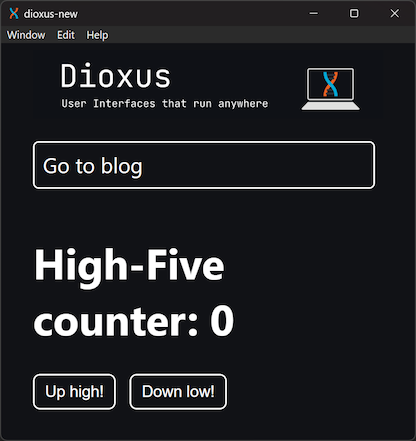
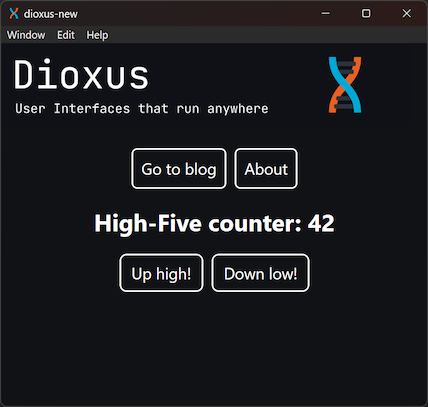
Fixed & extended CSS, be responsive.

diff --git a/assets/main.css b/assets/main.css
@@ -1,35 +1,26 @@
+* {
+    box-sizing: border-box;
+    margin: 0;
+    padding: 0;
+    color: white;
+    font-family: 'Segoe UI', Tahoma, Geneva, Verdana, sans-serif;
+}
+
+div, p, span {
+    font-size: large;
+}
+
 body {
     background-color: #111216;
 }
 
-h1 h2 h3 h4 h5 h6 {
-    color: white;
-}
-
-#main {
-    margin: 0;
-    display: flex;
-    flex-direction: column;
-    justify-content: center;
-    align-items: center;
-    font-family: 'Segoe UI', Tahoma, Geneva, Verdana, sans-serif
-}
-
-#links {
-    width: 25rem;
-    text-align: left;
-    font-size: x-large;
-    color: white;
-    display: flex;
-    flex-direction: column;
+#header img {
+    min-height: 6rem;
 }
 
 #links a {
-    color: white;
     text-decoration: none;
-    margin-top: 1.2rem;
-    margin-bottom: 1.2rem;
-    margin-right: 0.6rem;
+    font-size: large;
     border: white 0.14rem solid;
     border-radius: 0.4rem;
     padding: 0.6rem;
@@ -41,17 +32,33 @@ h1 h2 h3 h4 h5 h6 {
     cursor: pointer;
 }
 
-#header {
-    max-width: 75rem;
+#main {
+    display: flex;
+    flex-direction: column;
+    justify-content: center;
+    align-items: center;
+    gap: 1.2rem;
+
+    /* Debug */
+    /* border: 2px solid red; */
+}
+
+.row {
+    width: 100%;
+    display: flex;
+    flex-direction: row;
+    flex-wrap: wrap;
+    gap: 0.6rem;
+    justify-content: center;
+
+    /* Debug */
+    /* border: 2px solid lightblue; */
 }
 
 button {
-    color: white;
     background-color: #111216;
     padding: 0.5rem 0.75rem;
     font-size: large;
-    margin-right: 1rem;
-    margin-bottom: 1rem;
     border: white 0.14rem solid;
     border-radius: 0.5rem;
 }
@@ -59,4 +66,47 @@ button {
 button:hover {
     background-color: #2b2b2b;
     transition-duration: 250ms;
+}
+
+/* Content divs margins - also see media queries below */
+div#main > div:not(#header):not(#links) {
+    margin-right: 36vw;
+    margin-left: 36vw;
+}
+
+@media screen and (max-width: 100rem) {
+
+    div#main > div:not(#header):not(#links) {
+        margin-right: 32vw;
+        margin-left: 32vw;
+    }
+}
+
+@media screen and (max-width: 80rem) {
+
+    div#main > div:not(#header):not(#links) {
+        margin-right: 28vw;
+        margin-left: 28vw;
+    }
+}
+
+@media screen and (max-width: 60rem) {
+
+    div#main > div:not(#header):not(#links) {
+        margin-right: 20vw;
+        margin-left: 20vw;
+    }
+}
+
+@media screen and (max-width: 40rem) {
+    /* Left-align the header image when screen gets too small */
+    #header {
+        align-self: flex-start;
+        margin-left: -1.5rem;
+    }
+
+    div#main > div:not(#header):not(#links) {
+        margin-right: 8vw;
+        margin-left: 8vw;
+    }
 }

diff --git a/src/components.rs b/src/components.rs
@@ -8,11 +8,7 @@ use crate::routes::Routes;
 #[component]
 pub fn App() -> Element {
     rsx! {
-        div {
-            id: "links",
-
-            Router::<Routes> {}
-        }
+        Router::<Routes> {}
     }
 }
 
@@ -32,11 +28,42 @@ fn Header() -> Element {
 }
 
 #[component]
+pub fn About() -> Element {
+    rsx! {
+        Header {}
+
+        div {
+            id: "links",
+            class: "row",
+
+            Link { to: Routes::Home {}, "Go to counter" }
+        }
+
+        h2 { "About" }
+
+        div { "This is a Dioxus template application." }
+
+        div {
+            r#"Lorem ipsum dolor sit amet, consectetur adipiscing elit, sed do eiusmod tempor incididunt ut labore et dolore magna aliqua. Duis tristique sollicitudin nibh sit amet commodo nulla. Neque sodales ut etiam sit amet. Suscipit adipiscing bibendum est ultricies. Non tellus orci ac auctor augue mauris augue neque. Lectus urna duis convallis convallis tellus id interdum velit. Dictum varius duis at consectetur. Donec pretium vulputate sapien nec sagittis aliquam malesuada bibendum. In cursus turpis massa tincidunt dui ut ornare lectus. Lorem ipsum dolor sit amet. Vitae purus faucibus ornare suspendisse sed nisi lacus. Ornare quam viverra orci sagittis eu volutpat odio. Congue quisque egestas diam in arcu cursus euismod quis. Dignissim suspendisse in est ante in nibh mauris cursus mattis."#
+        }
+    }
+}
+
+#[component]
 pub fn Blog(id: i32) -> Element {
     rsx! {
         Header {}
 
-        Link { to: Routes::Home {}, "Go to counter" }
+        div {
+            id: "links",
+            class: "row",
+
+            Link { to: Routes::Home {}, "Go to counter" }
+            Link { to: Routes::About {}, "About" }
+        }
+        
+        h2 { "Blog" }
+
         "Blog post {id}"
     }
 }
@@ -48,14 +75,24 @@ pub fn Home() -> Element {
     rsx! {
         Header {}
 
-        Link {
-            to: Routes::Blog {
-                id: count()
-            },
-            "Go to blog"
-        }
         div {
-            h1 { "High-Five counter: {count}" }
+            id: "links",
+            class: "row",
+
+            Link {
+                to: Routes::Blog {
+                    id: count()
+                },
+                "Go to blog"
+            }
+    
+            Link { to: Routes::About {}, "About" }
+        }
+
+        h2 { "High-Five counter: {count}" }
+
+        div {
+            class: "row",
             button { onclick: move |_| count += 1, "Up high!" }
             button { onclick: move |_| count -= 1, "Down low!" }
         }

diff --git a/src/routes.rs b/src/routes.rs
@@ -3,7 +3,7 @@
 
 use dioxus::prelude::*;
 
-use crate::components::{Home, Blog};
+use crate::components::*;
 
 #[derive(Clone, Routable, Debug, PartialEq)]
 pub enum Routes {
@@ -13,4 +13,7 @@ pub enum Routes {
 
     #[route("/blog/:id")]
     Blog { id: i32 },
+
+    #[route("/about")]
+    About {},
 }
